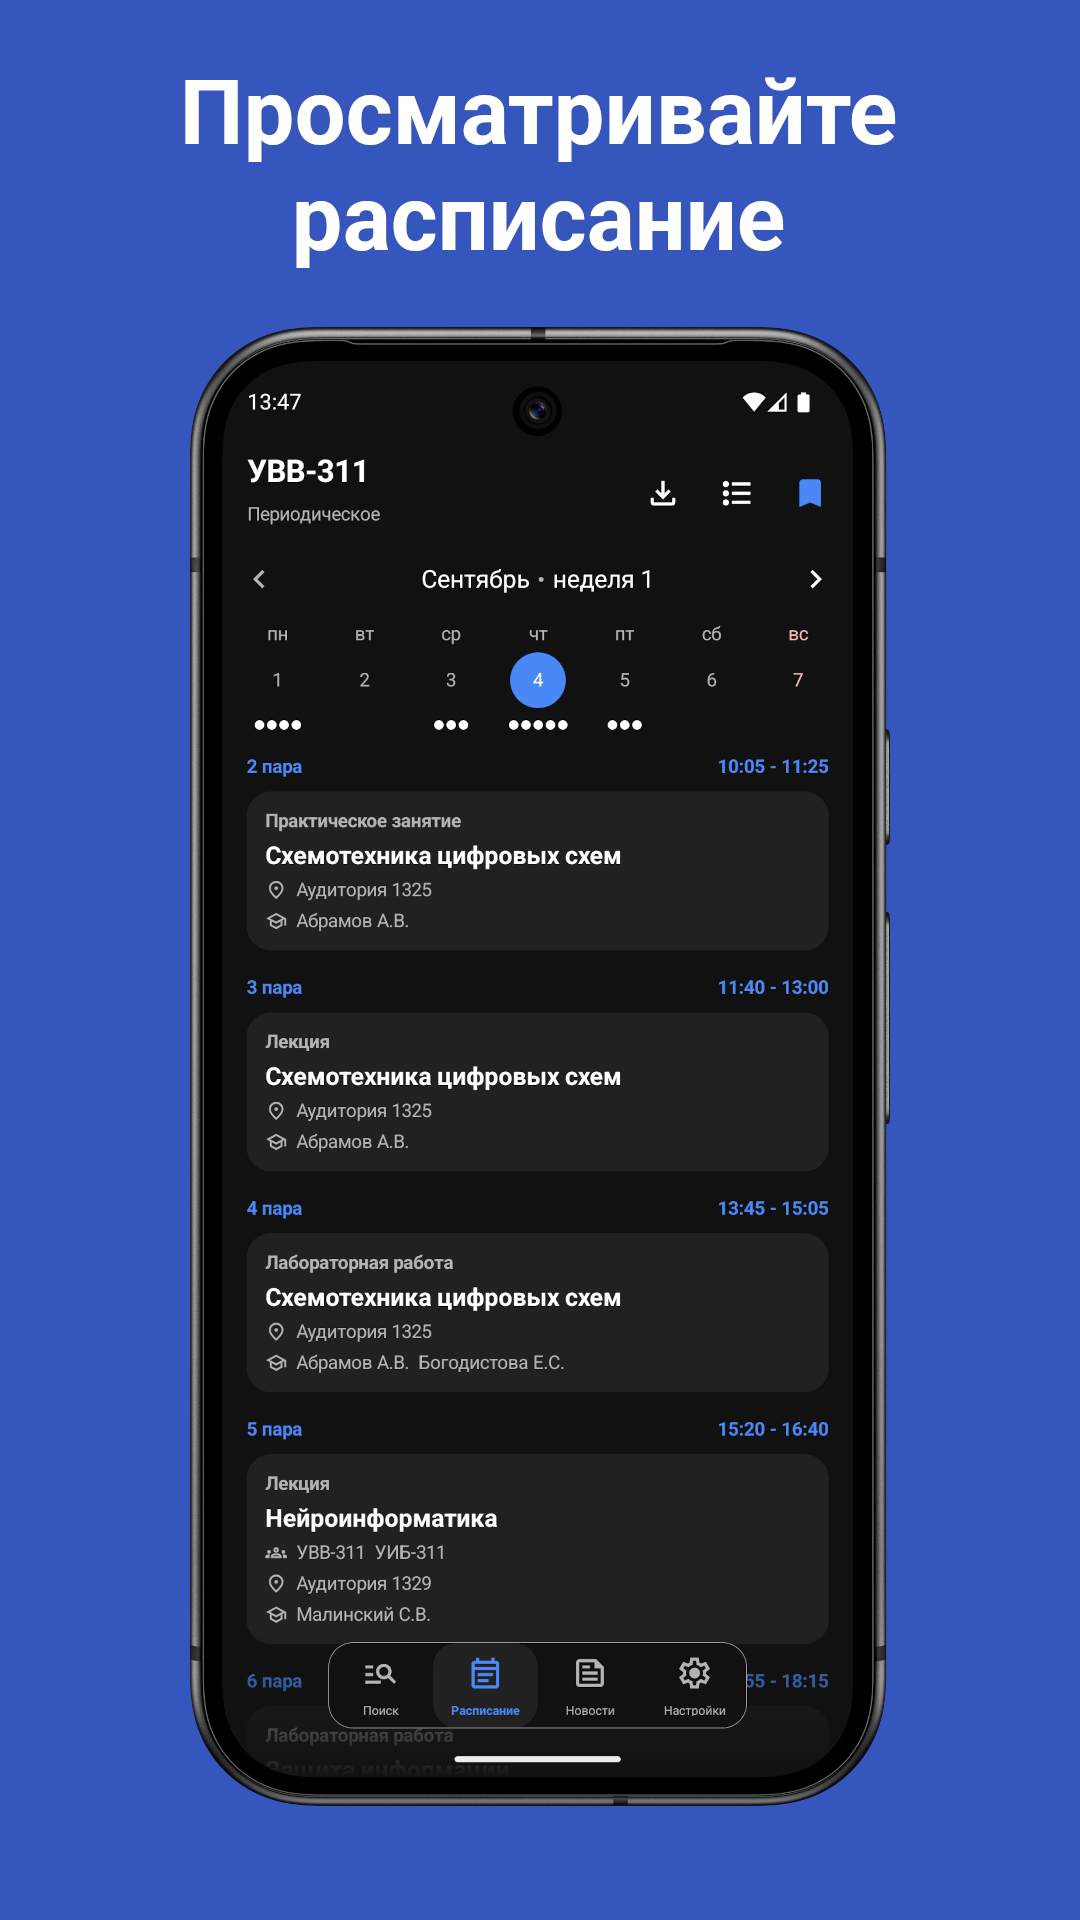
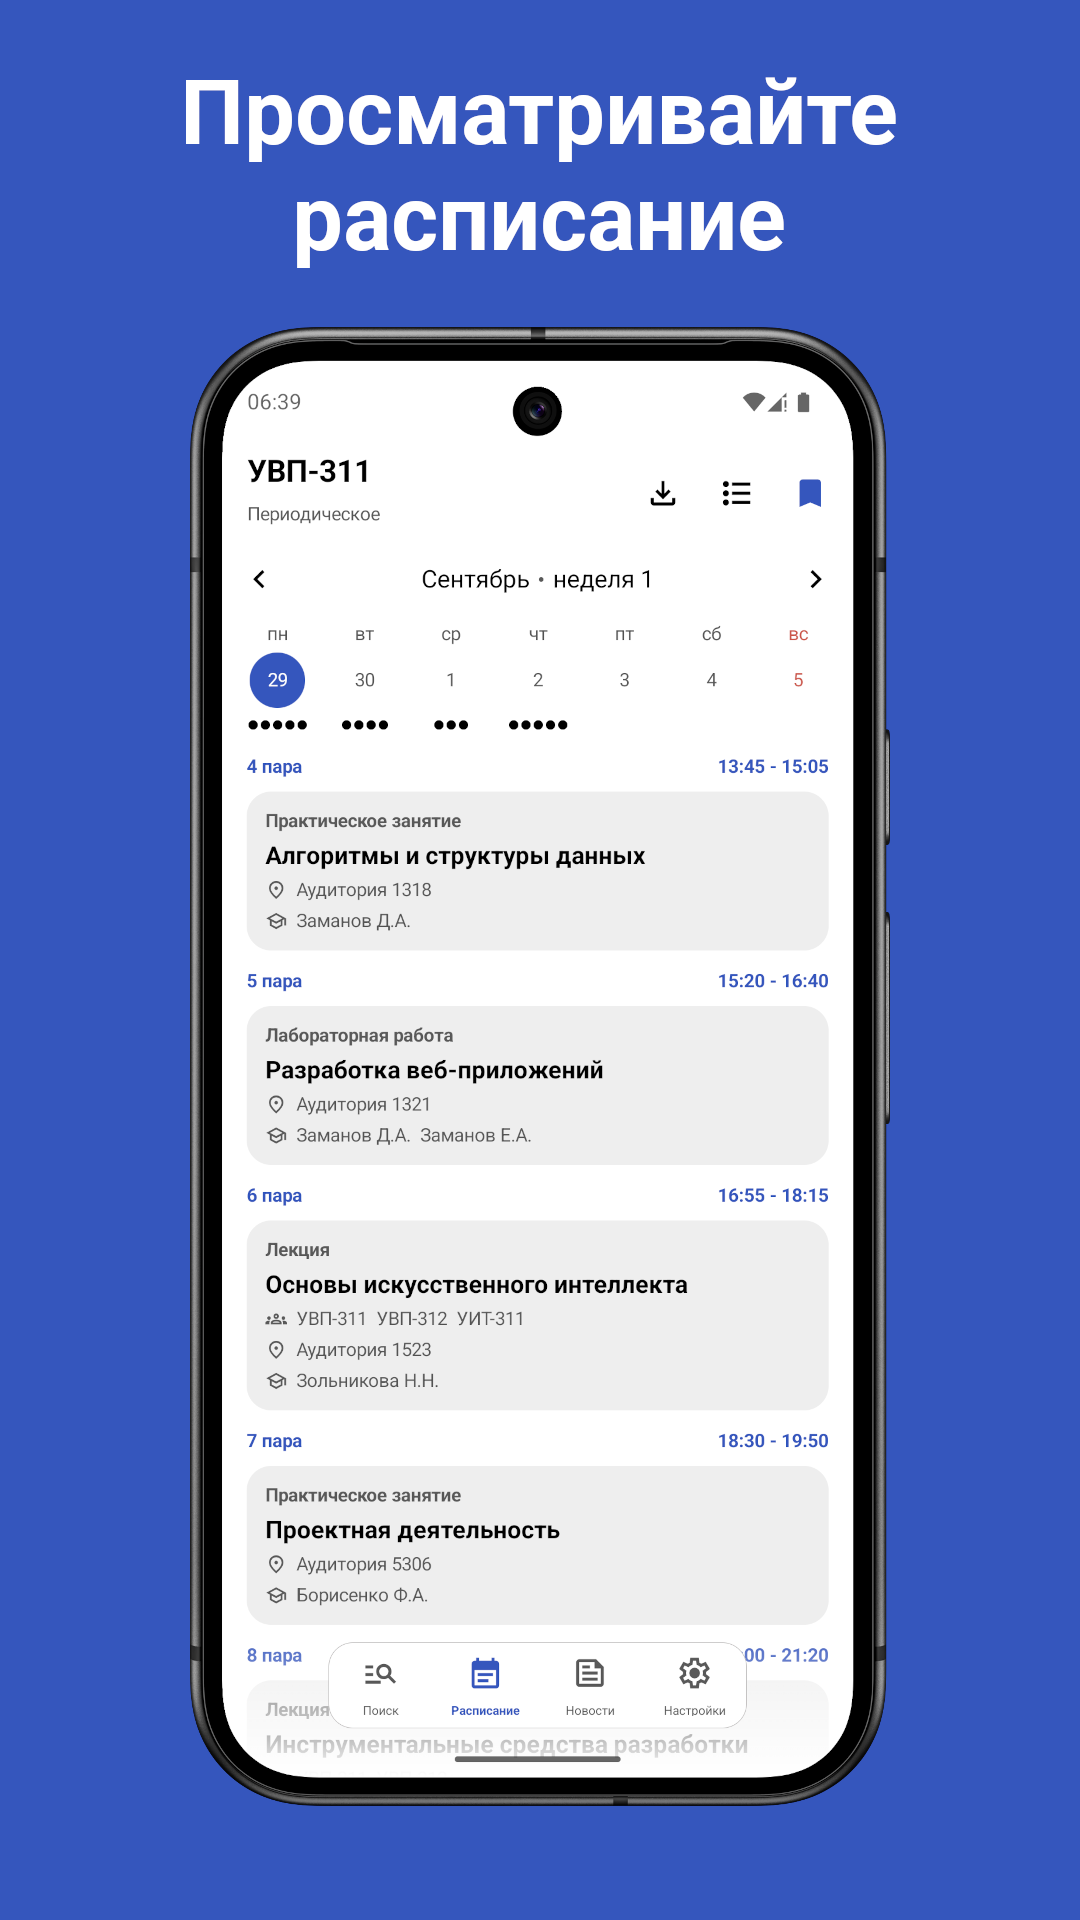
Updated README.md

diff --git a/README.md b/README.md
@@ -4,10 +4,10 @@
 Приложение для поиска и сохранения расписаний РУТ(МИИТ). 
 
 Здесь уже можно:
-- Сохранять расписания групп, преподавателей и аудиторий
+- Искать и сохранять расписания групп, преподавателей и аудиторий
+- Создавать свои расписания
 - Добавлять комментарии и теги к парам
 - Просматривать новости университета
-- Выбирать стиль оформления приложения
 
 ## Скриншоты
 <table>
@@ -16,5 +16,6 @@
 <td><img src="readme/2.png" width="200" /></td>
 <td><img src="readme/3.png" width="200" /></td>
 <td><img src="readme/4.png" width="200" /></td>
+<td><img src="readme/5.png" width="200" /></td>
 </tr>
 </table>
